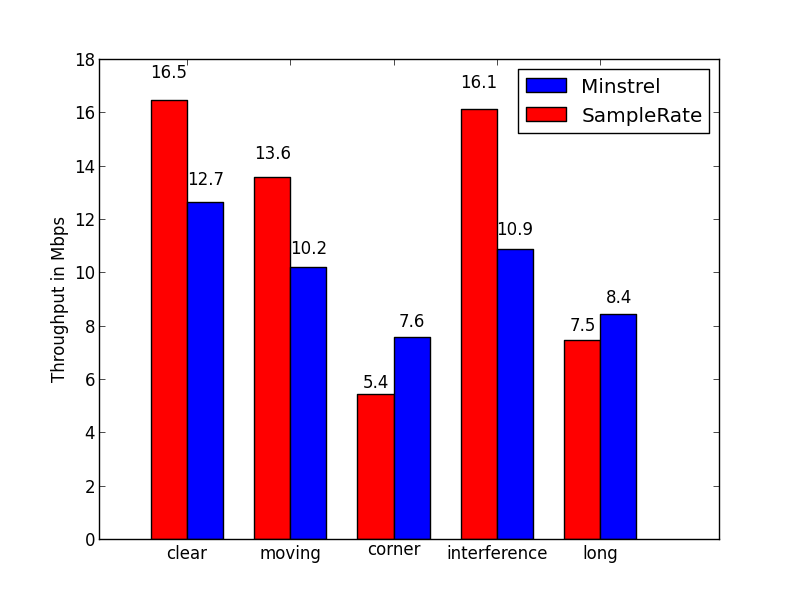
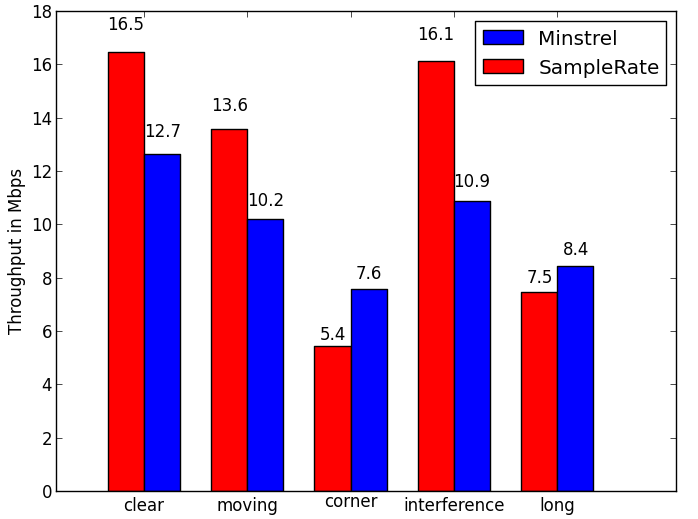
save

diff --git a/paper/paper.tex b/paper/paper.tex
@@ -44,6 +44,7 @@ pavpan@mit.edu
 %Name Institution
 } % end author
 
+\date{May 2013}
 
 \maketitle
 
@@ -79,6 +80,7 @@ transmission time, Minstrel uses throughput: \begin{equation} T = \frac{p}{tx\_t
 The probability $p$ of a successful transmission is calculated from statistics collected by the \texttt{ProcessFeedback()} method, and is done using an exponential weighted moving average, or EWMA. The EWMA creates a weighted average that weighs recent data more heavily than old data. The weighting for old data decreases exponentially. An EWMA is beneficial because it ensures that a sudden degredation in link quality will create a rapid response in the probabilities due to the increased weight of recent data. Minstrel will waste less time sending packets at a rate that no longer works, as compared to a simple probability calculation.
 
 \begin{table*}[htb]
+  \centering
     \begin{tabular}[htb]{l|l|l|l}
     Try & Normal               & Random (slower than best) & Random (faster than best) \\ \hline
     1   & Best throughput      & Best throughput           & Random                    \\
@@ -103,19 +105,16 @@ At this point, we decided to take a different approach and use an approach simil
 
 \subsection{Trace Collection}
 
+TODO
+
 \begin{figure}[hbt]
   \hspace{-0.5em}\includegraphics[width=3.5in]{bsmt13floorplan.png}\vspace{-0em}
   \caption{We collected most traces at a remote access point in the basement of Building 13 at MIT.}
 \end{figure}
 
-\begin{figure}[htb]
-  \hspace{-.75em}\includegraphics[width=3.5in]{constant.png}\vspace{-0em}
-  \caption{Throughput of using a constant 802.11b/g bitrate in an MIT basement.}
-\end{figure}
-
 \subsection{Testing framework}
 
-Harness.py, etc.
+TODO: Harness.py, etc.
 
 We implemented SampleRate as outlined in John Bicket's Master's thesis~\cite{samplerate}. This implementation is slightly different from how it was implemented in the MadWifi kernel driver. The primary difference is that the kernel implementatiion uses a EWMA instead of a 10 second window. The thesis implmenentation throws out old rate data and begins anew every 10 seconds. It would be worth looking at the performance of EWMA-based SampleRate in the future. 
 
@@ -126,10 +125,28 @@ We implemented Minstrel by porting the C code from the 3.3.8 version of the Linu
 
 \section{Analysis}
 
-Minstrel actually is better than SampleRate (except on short traces). Eit.
+Minstrel and SampleRate perform similarly. Minstrel sometimes has very poor performance on short traces--as low as 2mbps. This is because it does not stop sending after four successive failures, but must wait until the end of the 100ms window for statistics to be compiled.
+
+\begin{figure}[htb]
+  \hspace{-1em}\includegraphics[width=3.4in]{constant.png}\vspace{-0em}
+  \caption{Throughput of using a constant 802.11b/g bitrate in clear line-of-sight from the access point.}
+\end{figure}
+
+
+\begin{figure}[htb]
+  \hspace{-.75em}\includegraphics[width=3.5in]{MinVSSam1.png}\vspace{-0em}
+  \caption{Throughput of Minstrel and SampleRate on various trace situations.}
+\end{figure}
+
 
 \subsection{Improvements to Minstrel}
 Minproved.
+
+\begin{figure}[htb]
+  \hspace{-2em}\includegraphics[width=3.5in]{mnVSspVSmp1.png}\vspace{-0em}
+  \caption{Throughput of Minproved as compared to SampleRate and vanilla Minstrel.}
+\end{figure}
+
 
 \subsection{Availability}
 All of our code and collected trace data are available on GitHub:
@@ -151,7 +168,9 @@ Finally, we are considering submitting our improvements to the Minstrel algorith
 
 \section{Conclusion}
 
-The end.
+Minstrel and SampleRate perform similarly. The results suggest that SampleRate tends to do slightly better, except in very lossy links such as the client being far awat from the AP or actively moving. Minproved, our improved version of Minstrel, solidly outperforms both Minstrel and SampleRate. 
+
+It seems like the abandonment of SampleRate in the Linux kernel may have been a bit hasty, since it seems to perform similarly to Minstrel and it is a much simpler algorithm and thus less bug prone. We are not sure if there are adjustments to SampleRate that will bring it's performance near Minproved, though. 
 
 \section{Acknowledgements}
 We would like to thank Jonathan Perry and Hari Balikrishnan for their valuable guidance, as well as Derek Smithies for answering our questions about Minstrel. 
